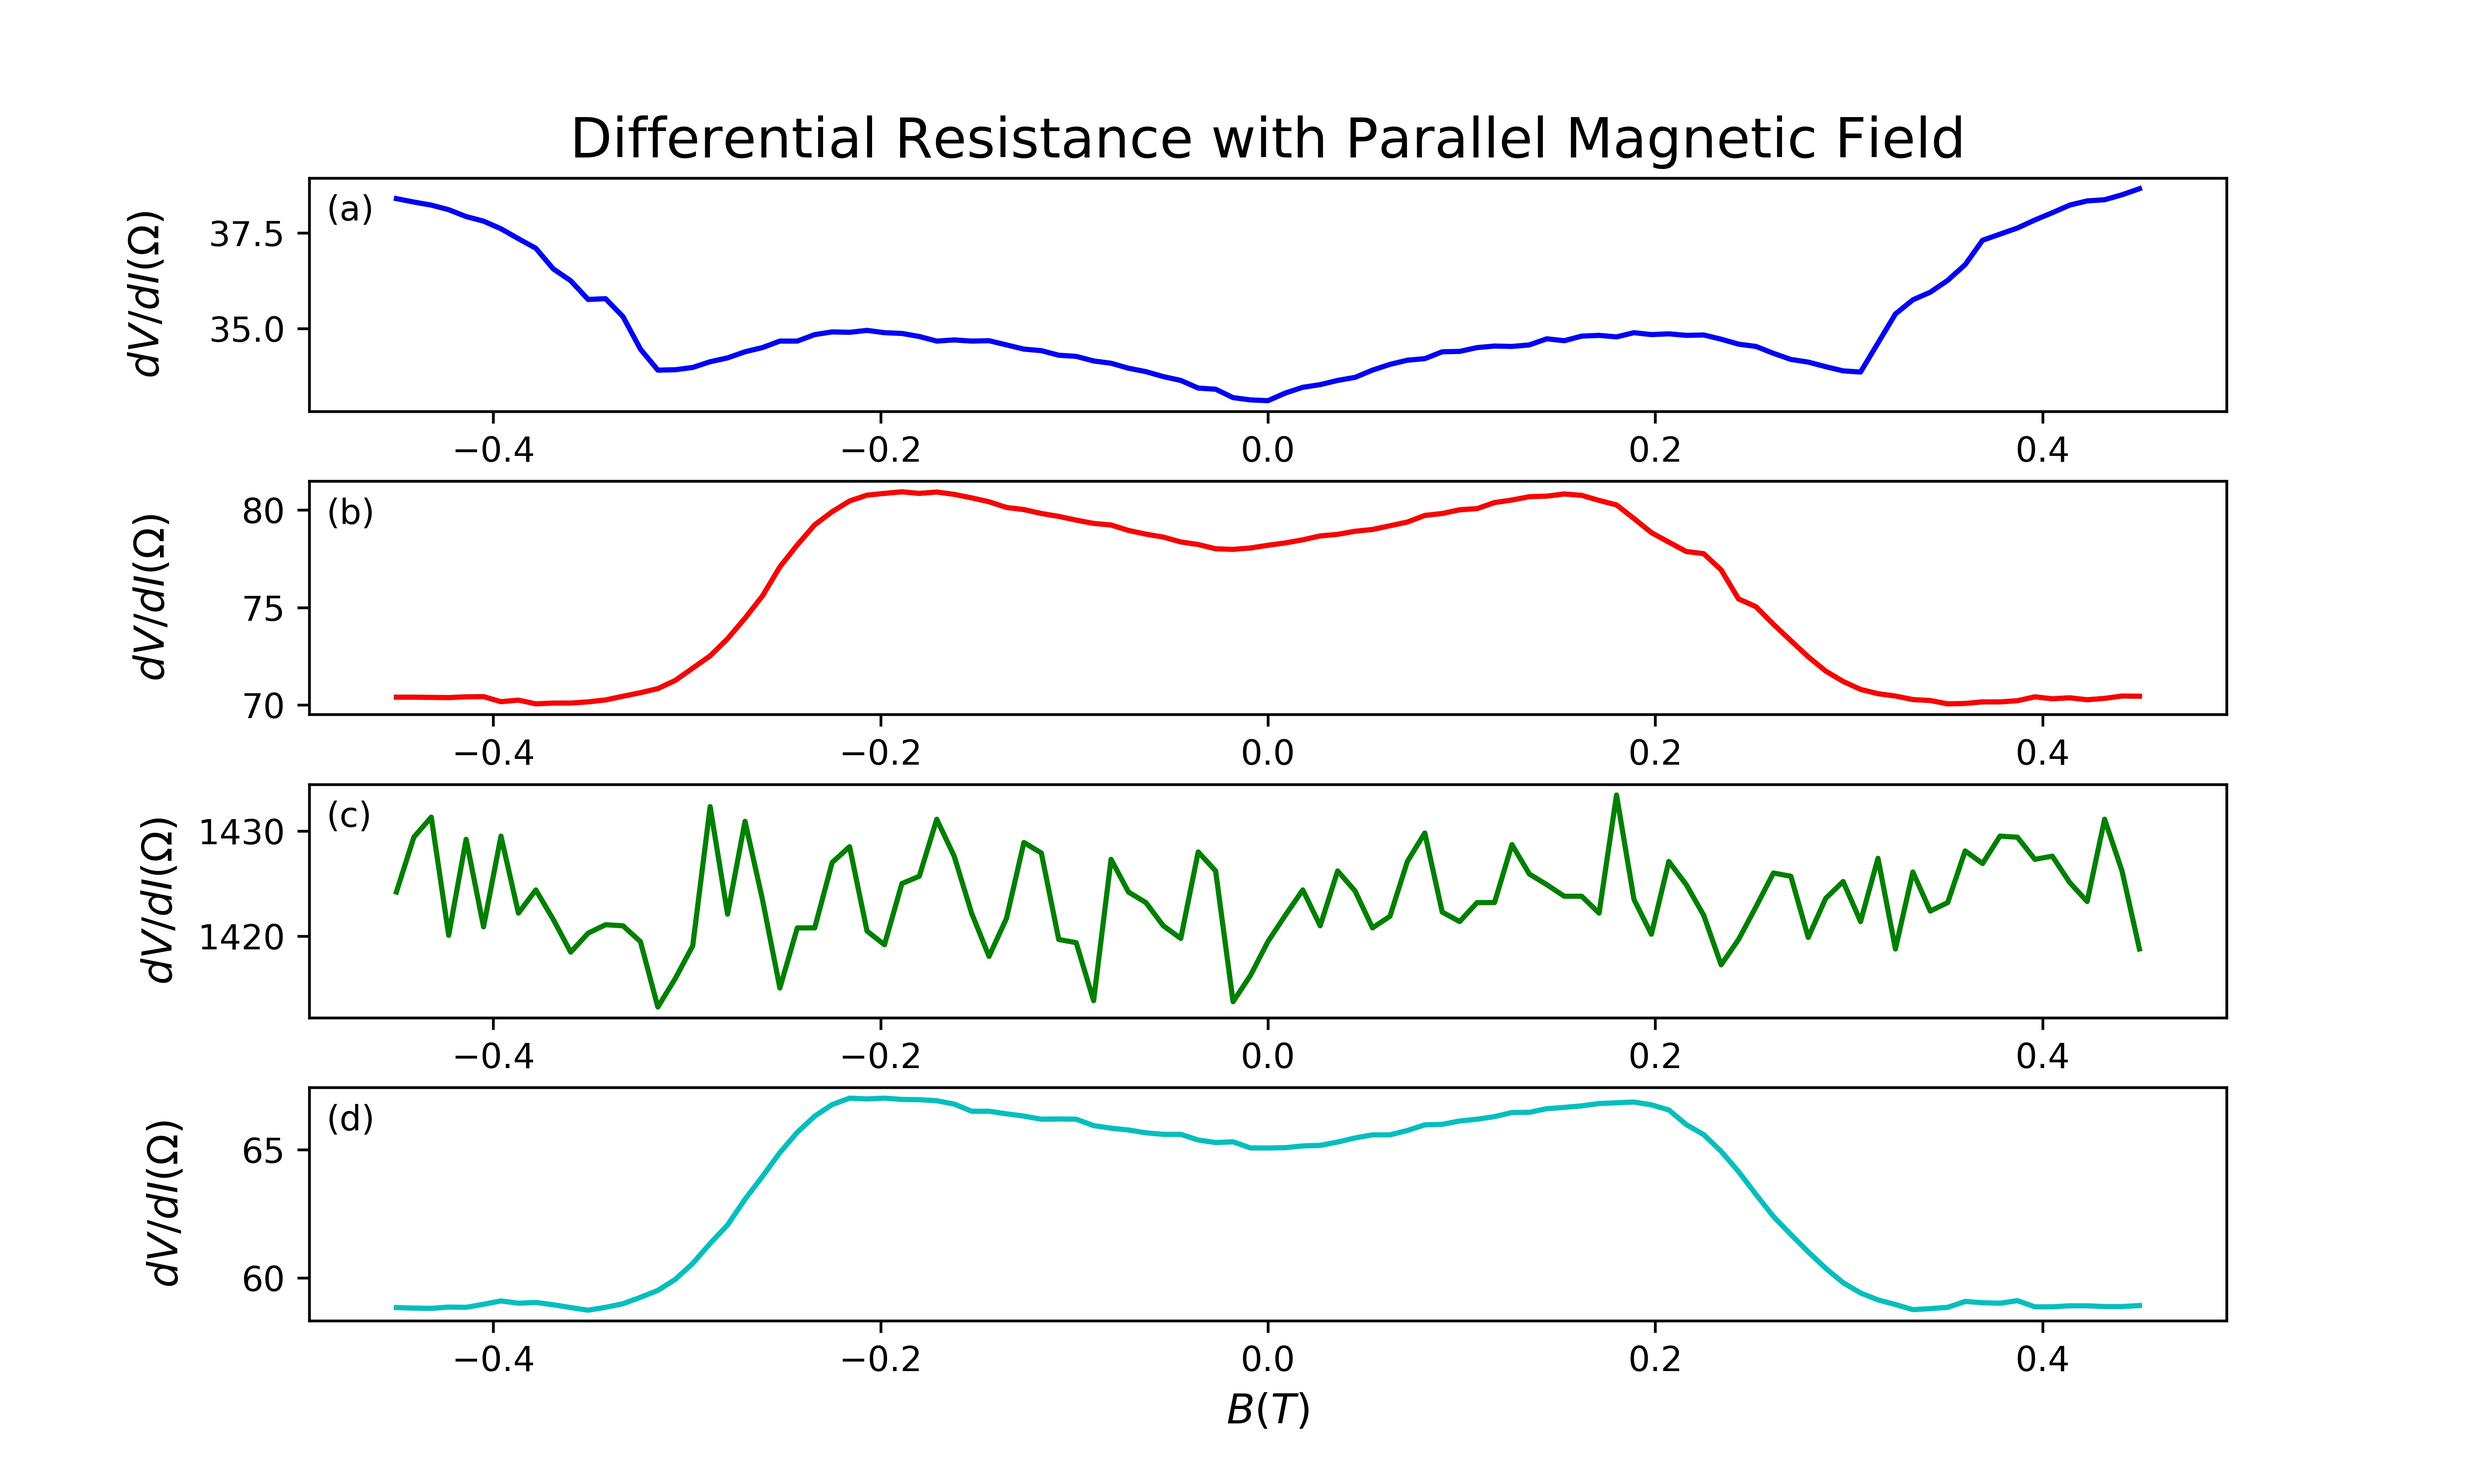
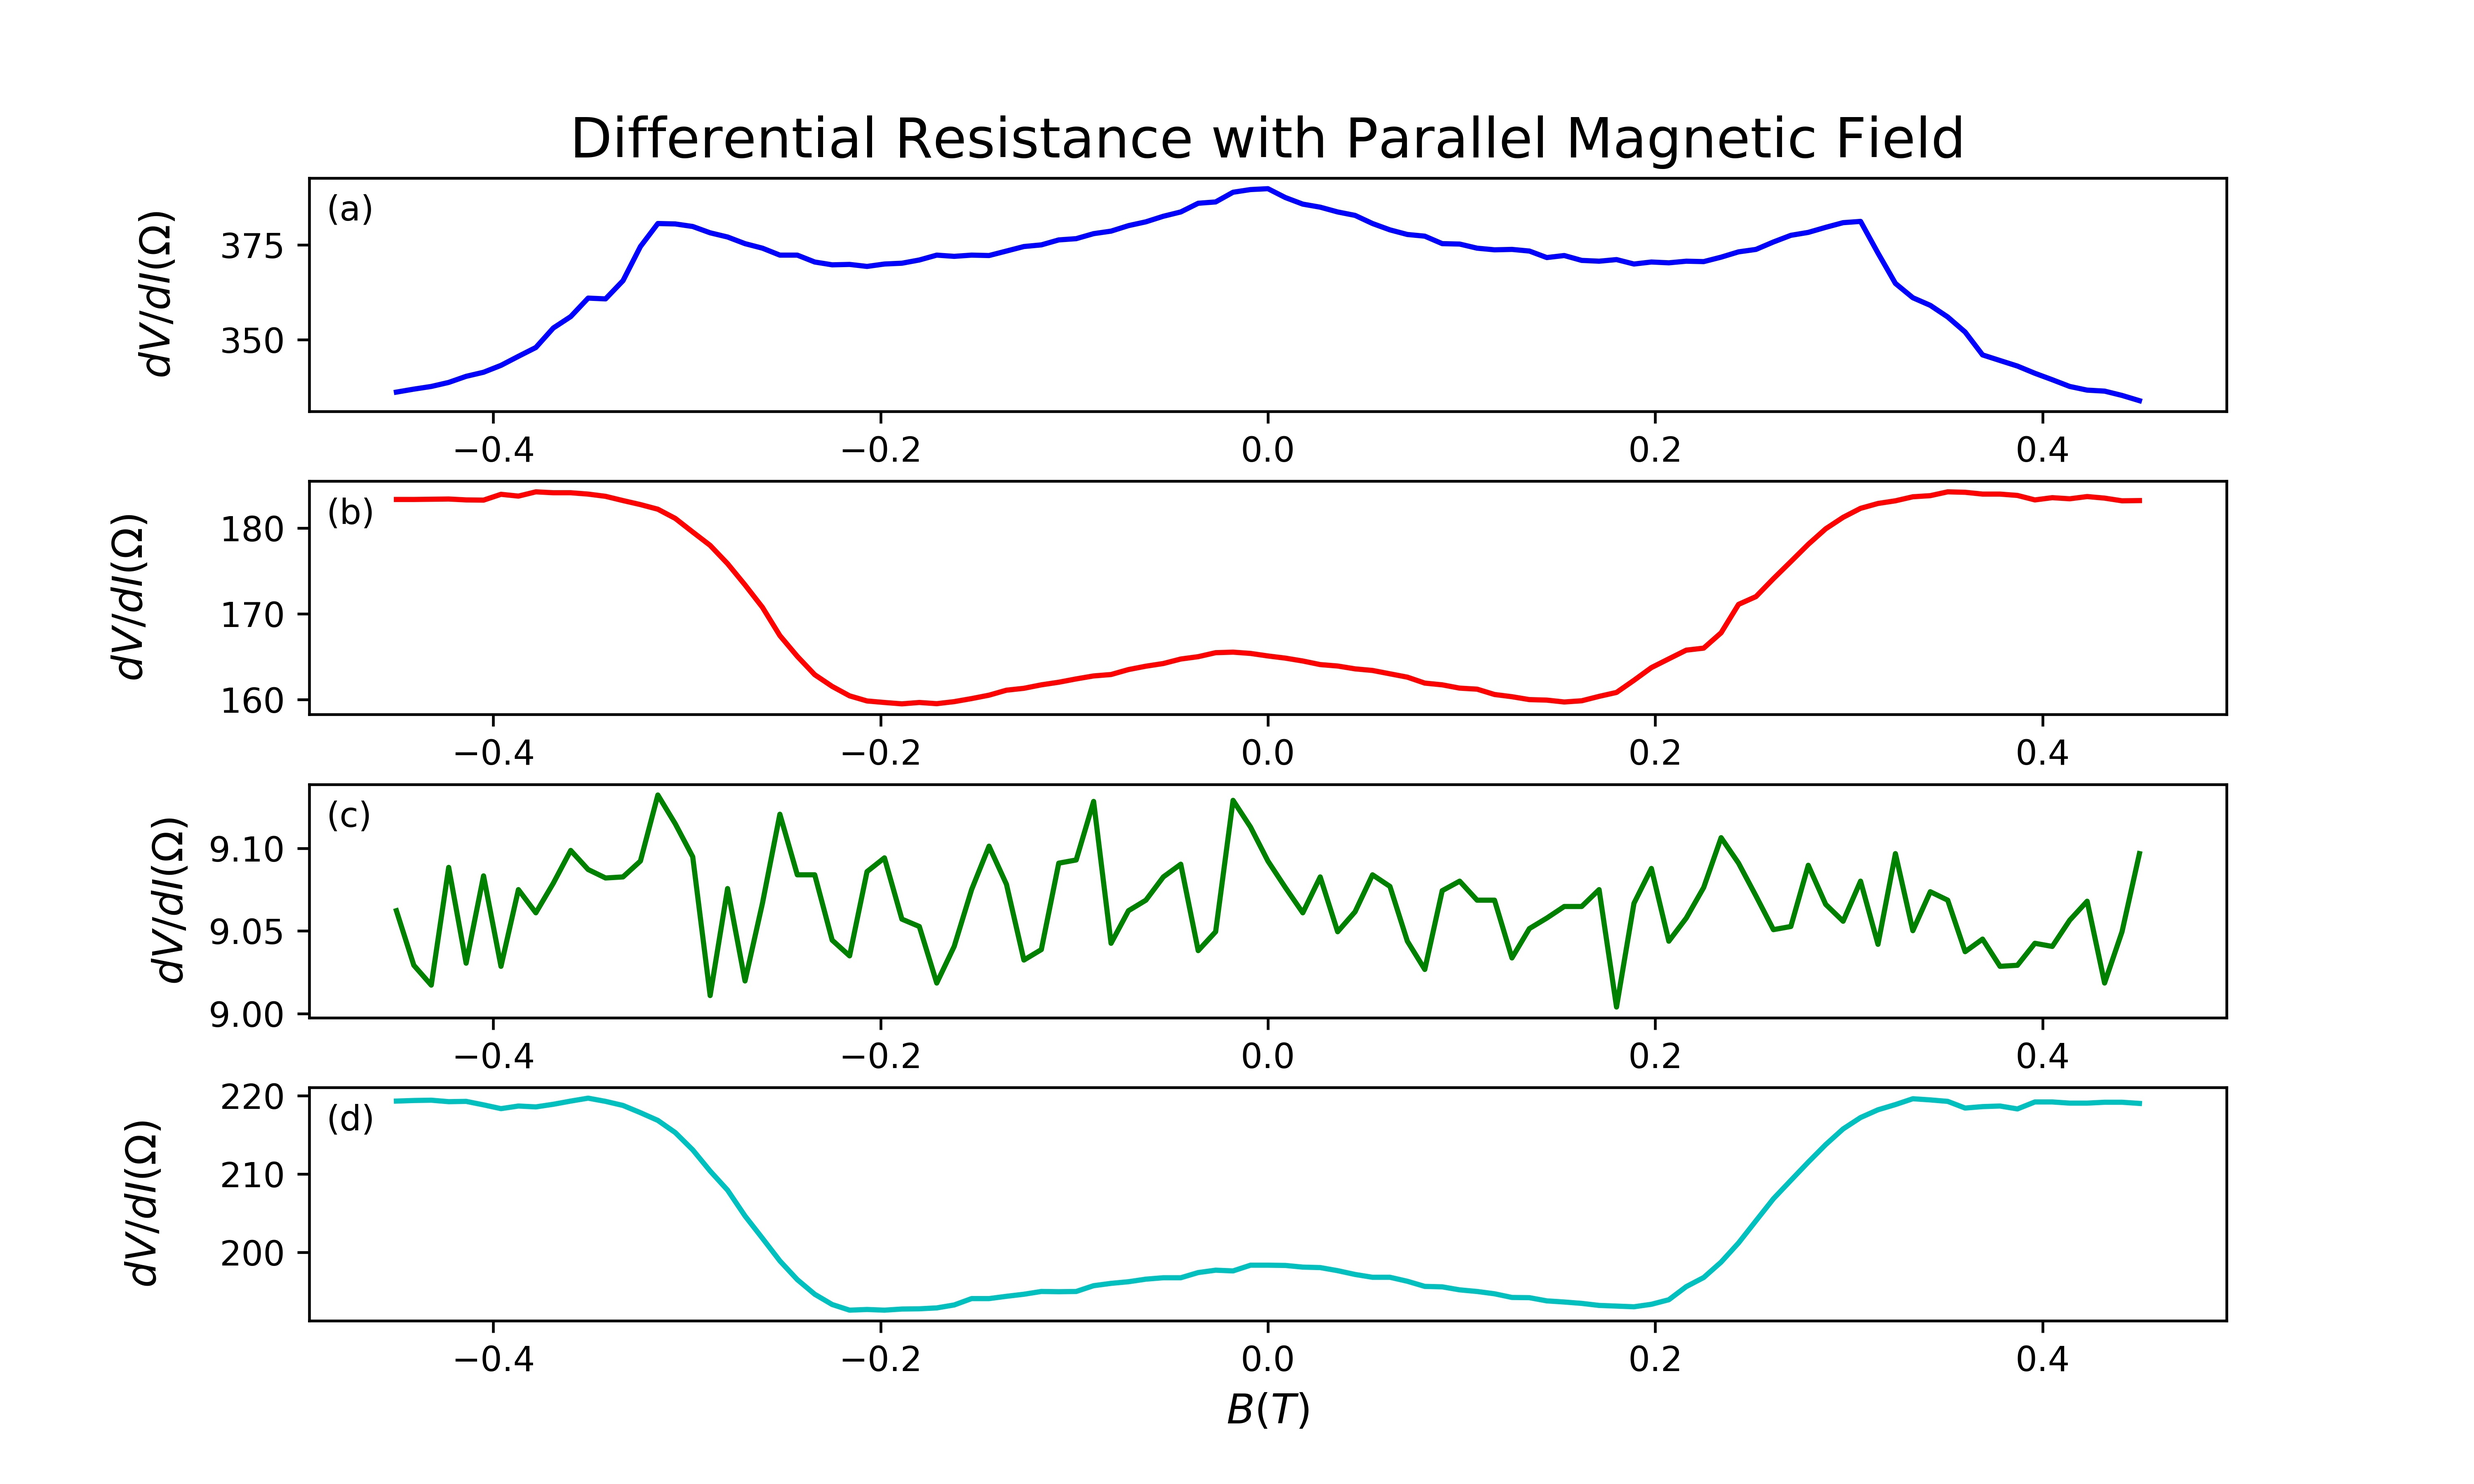
4-4_2

diff --git a/DataProcessing.py b/DataProcessing.py
@@ -3,6 +3,7 @@ import numpy as np
 import scipy as sp
 import matplotlib
 import matplotlib.pyplot as plt
+from scipy import interpolate
 from pylab import *
 
 #定义从.txt文档中读取实验数据的函数
@@ -19,9 +20,10 @@ def ReadData(name,path):
     file.close()
     return data
 
-#定义将微分电阻转化为微分电导的函数,注意偏置电流的数列最中间点必须是零点,偏置电流值需要为uA,V(I)需要为单调递增函数
+#定义将微分电阻与偏流的关系转化为微分电导与偏压的关系的函数,注意偏置电流的数列最中间点必须是零点,偏置电流值需要为uA,V(I)需要为单调递增函数
 def dr2dc(I_bias,dr):
 
+    #
     if dr.size!=I_bias.size:
         print('Error! The array of differential groups and bias currents must have the same dimensions!')
         return None
@@ -30,6 +32,7 @@ def dr2dc(I_bias,dr):
 
     I0=int(size/2)#寻找偏置电流零点(实际位置为I0+1)
     
+    #积分得到电压：
     V=np.zeros(size)#定义电压数组
     V[0]=0
     for i in np.linspace(1,size-1,size-1):
@@ -37,25 +40,23 @@ def dr2dc(I_bias,dr):
         V[i]=V[i-1]+dr[i-1]*(I_bias[i]-I_bias[i-1])
     V=V-V[I0]
 
+    #求微分电导
     dc=np.divide(1,dr)
     dc=6.62607004e-34*dc/(2* 1.6021766**2 * 1e-38) #转化单位从\Omega^{-1}为2e^2/h
 
-    plt.figure(3,figsize=(10,6))
-    plt.plot(V,dc)
-    xlabel(r'$V(\mu V)$',fontsize=12)
-    ylabel(r'$dI/dV (2e^2/h)$',fontsize=12,labelpad=12)
-    title('Differential Conduction-Voltage Relationship',fontsize=16)
-    return None
-    #线性插值:
-    # V1=np.linspace(V.min(),V.max(),size)
-    # I1=np.zeros(size)
-    # for i in np.linspace(0,size-1,size):
-    #     for j in np.linspace(0,size-1,size):
-    #         if (V1[i] >= V[j] and V1[i] < V[j+1]):
-    #             I1[i]=I[j]+(V1[i]-V[j])*(I[j+1]-I[j])/(V[j+1]-V[j])
-    #             break
-    #         else:
-    #             continue
+    #插值求并使数据点均匀
+    f=interpolate.interp1d(V,dc,kind='linear')
+    V_new=np.linspace(V.min(),V.max(),size)
+    dc_new=f(V_new)
+
+    ##绘图
+    # plt.figure(999,figsize=(10,6))
+    # plt.plot(V_new,dc_new)
+    # xlabel(r'$V(\mu V)$',fontsize=12)
+    # ylabel(r'$dI/dV (2e^2/h)$',fontsize=12,labelpad=12)
+    # title('Differential Conduction-Bias Voltage Relationship',fontsize=16)
+
+    return V_new,dc_new
     
 
 
@@ -85,17 +86,15 @@ for i in np.linspace(0,data1.shape[0]-1,data1.shape[0]):
 #     y=data1[:,int(i)-1]
 #     plt.plot(x,y)
 #     #plt.title('Column %d' %i)
-x=data1[zero_mgnet:zero_mgnet+y_points,3]/1e-6
-y=data1[zero_mgnet:zero_mgnet+y_points,1]/1e-7
 
-dr2dc(x,y)
-
-fig1=plt.figure(1,figsize=(10,6), dpi=600)#绘制四个器件微分电阻随磁场的变化
+#绘制四个器件微分电阻随磁场的变化：
+fig1=plt.figure(1,figsize=(10,6), dpi=600)
 labelsize=12
 
 plt.subplot(4,1,1)
 x=data1[0:-1:501,4]
 y=data1[251:-1:501,1]/1e-7
+y=6.62607004e-34*np.divide(1,y)/(2* 1.6021766**2 * 1e-38)#转化为微分电导并转化单位
 plt.plot(x,y,'b')
 xlabel(r'$B(T)$',fontsize=labelsize)
 ylabel(r'$dV/dI(\Omega)$',fontsize=labelsize,labelpad=12)
@@ -105,6 +104,7 @@ title('Differential Resistance with Parallel Magnetic Field',fontsize=16)
 plt.subplot(4,1,2)
 x=data1[0:-1:501,4]
 y=data1[251:-1:501,2]/1e-7
+y=6.62607004e-34*np.divide(1,y)/(2* 1.6021766**2 * 1e-38)#转化为微分电导并转化单位
 plt.plot(x,y,'r')
 xlabel(r'$B(T)$',fontsize=labelsize)
 ylabel(r'$dV/dI(\Omega)$',fontsize=labelsize,labelpad=20)
@@ -113,6 +113,7 @@ text(x.min()*1.08,y.max()-(y.max()-y.min())*0.15,'(b)')
 plt.subplot(4,1,3)
 x=data1[0:-1:501,4]
 y=data1[251:-1:501,5]/1e-9
+y=6.62607004e-34*np.divide(1,y)/(2* 1.6021766**2 * 1e-38)#转化为微分电导并转化单位
 plt.plot(x,y,'g')
 xlabel(r'$B(T)$',fontsize=labelsize)
 ylabel(r'$dV/dI(\Omega)$',fontsize=labelsize,labelpad=5)
@@ -121,6 +122,7 @@ text(x.min()*1.08,y.max()-(y.max()-y.min())*0.15,'(c)')
 plt.subplot(4,1,4)
 x=data1[0:-1:501,4]
 y=data1[251:-1:501,6]/1e-7
+y=6.62607004e-34*np.divide(1,y)/(2* 1.6021766**2 * 1e-38)#转化为微分电导并转化单位
 plt.plot(x,y,'c')
 xlabel(r'$B(T)$',fontsize=labelsize)
 ylabel(r'$dV/dI(\Omega)$',fontsize=labelsize,labelpad=16)
